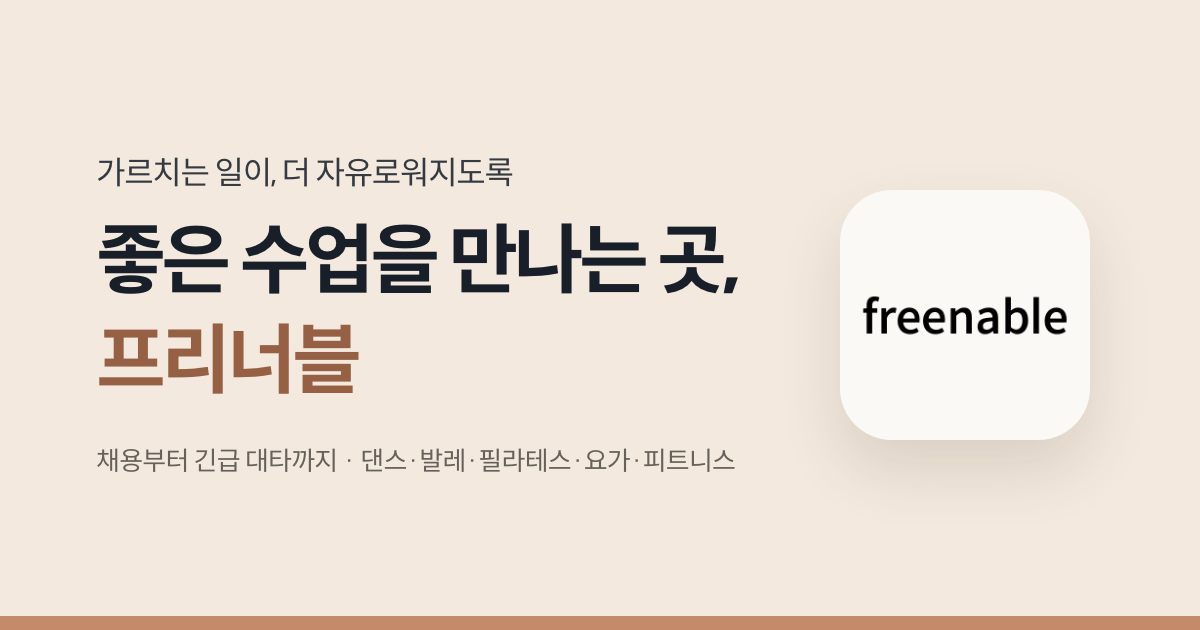
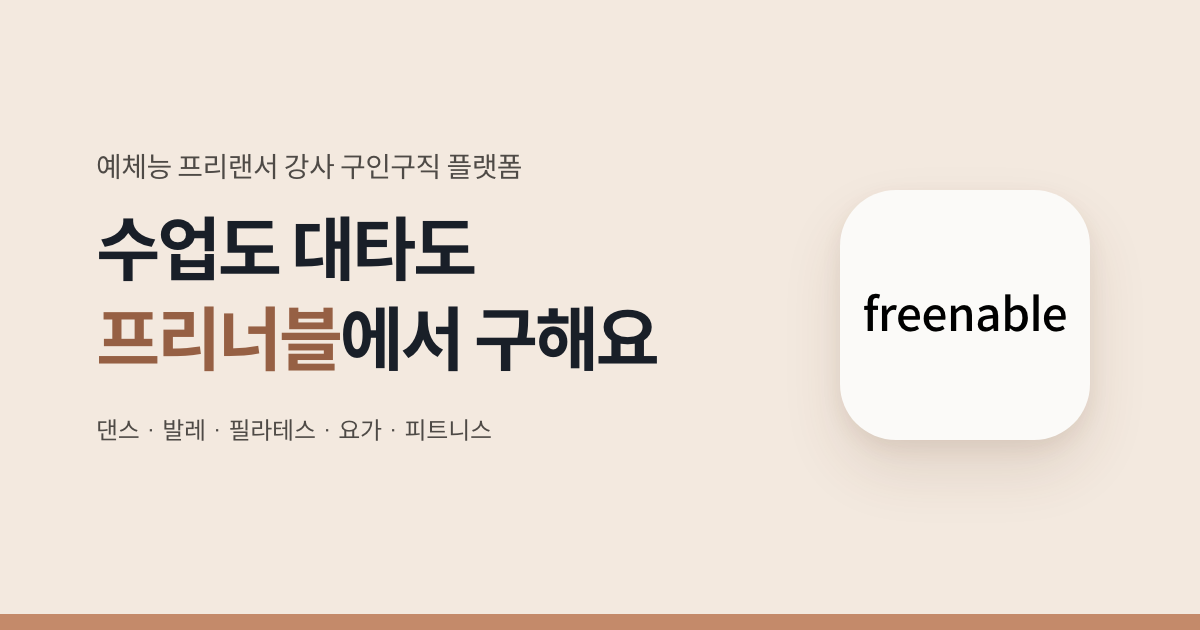
copy: 랜딩 문구 전면 수정, 인스타 광고 문구 반영, 장르 섹션 추가
- "일의 연결", "반가운 만남", "나답게" 같은 추상적인 문구를
  공고 등록·지원·대타처럼 앱에서 실제로 하는 일로 바꿈
- 인스타 광고 문구를 대타 섹션 제목과 보조 문구에 넣음
  ("갑자기 빈 수업, 대타 선생님 찾을 땐" / "공고 등록도 지원도 무료, 앱에서 간편하게")
- 서비스 설명을 "예체능 프리랜서 강사 구인구직 플랫폼"으로 통일
  (히어로, 페이지 제목, 메타 설명, JSON-LD, 공유 이미지, README)
- 소개 섹션: 지인 연락·오픈톡·커뮤니티·유료 공고 대신 프리너블 하나로
- 장르별 섹션("어떤 수업을 가르치세요?") 추가, 기능 투어의 장르 나열 줄 제거
- 메뉴·푸터 이름 정리(대타 구하기, 서비스 소개), 404 문구를 해요체로
- 공유 미리보기 이미지 원본 템플릿(scripts/og-image) 추가 후 다시 렌더링

diff --git a/app/page.tsx b/app/page.tsx
@@ -5,6 +5,7 @@ import { AppDownloadLinks } from "@/components/AppDownloadLinks";
 import { SiteHeader } from "@/components/SiteHeader";
 import { AppScreen } from "@/components/AppPreview";
 import { FeatureTour } from "@/components/FeatureTour";
+import { GENRES } from "@/content/landing";
 import { SITE } from "@/content/site";
 
 export default function Home() {
@@ -16,31 +17,44 @@ export default function Home() {
         <section className="hero" aria-labelledby="hero-title">
           <div className="container headline-grid">
             <div className="headline-block">
-              <h1 id="hero-title">좋은 수업을 만나는 곳,<br />프리너블</h1>
-              <p className="lead hero-lead">나에게 맞는 채용부터 꼭 필요한 대타까지.<br />댄스·피트니스 강사를 위한 일의 연결.</p>
+              <h1 id="hero-title">수업도 대타도<br />프리너블에서 구해요</h1>
+              <p className="lead hero-lead">예체능 프리랜서 강사 구인구직 플랫폼</p>
               <AppDownloadLinks />
-              <a href="#about" className="hero-explore">서비스 둘러보기</a>
+              <a href="#about" className="hero-explore">어떻게 쓰는지 보기</a>
             </div>
             <figure className="hero-figure">
               <AppScreen kind="jobs" className="hero-shot" eager />
-              <figcaption>가상의 예시 데이터로 구성한 앱 화면입니다.</figcaption>
+              <figcaption>앱 화면은 예시입니다.</figcaption>
             </figure>
           </div>
         </section>
         <section className="statement" id="about" aria-labelledby="about-title">
           <div className="container statement-grid">
-            <h2 id="about-title">일을 찾는 시간은 줄이고,<br />좋아하는 수업에 더 집중하세요.</h2>
-            <p className="statement-line">새로운 수업을 찾는 강사와, 함께할 강사를 찾는 센터.<br />프리너블이 서로에게 필요한 연결을 만들어갑니다.</p>
+            <h2 id="about-title">구인 글 여기저기 올리던 일,<br />이제 <em>프리너블</em> 하나로</h2>
+            <p className="statement-line">지인 연락, 오픈톡, 커뮤니티, 유료 공고 대신<br />센터는 무료로 올리고, 강사는 골라서 지원.</p>
+          </div>
+        </section>
+        <section className="genres" aria-labelledby="genres-title">
+          <div className="container genres-grid">
+            <h2 id="genres-title">어떤 수업을<br />가르치세요?</h2>
+            <ul className="genre-list">
+              {GENRES.map((genre) => (
+                <li key={genre.name}>
+                  <span className="genre-name">{genre.name}</span>
+                  <div><h3>{genre.hook}</h3><p>{genre.detail}</p></div>
+                </li>
+              ))}
+            </ul>
           </div>
         </section>
         <FeatureTour />
         <section className="app-section" id="app" aria-labelledby="app-title">
           <div className="container app-grid">
             <div className="app-copy">
-              <h2 id="app-title">당신의 다음 수업,<br />프리너블에서 시작해요.</h2>
-              <p className="lead">좋아하는 일을 오래, 나답게.<br />지금 앱을 다운로드하고 나에게 맞는 수업을 찾아보세요.</p>
+              <h2 id="app-title">공고 등록도 지원도<br />무료</h2>
+              <p className="lead">앱 받고 지역·장르만 고르면<br />바로 공고 확인</p>
               <AppDownloadLinks />
-              <p className="app-note">iPhone과 Android에서 이용할 수 있어요.<br />공고 확인부터 지원까지, 앱에서 간편하게.</p>
+              <p className="app-note">iPhone · Android</p>
             </div>
             <figure className="app-figure">
               <AppScreen kind="detail" className="app-shot-crop" />
@@ -58,7 +72,7 @@ function SiteFooter() {
       <div className="container footer-grid">
         <div className="footer-brand"><BrandLogo /></div>
         <div className="footer-links">
-          <div><strong>서비스</strong><a href="#jobs">채용공고</a><a href="#substitute">긴급 대타</a><a href="#talent">강사 프로필</a></div>
+          <div><strong>서비스</strong><a href="#jobs">수업 찾기</a><a href="#substitute">대타 구하기</a><a href="#talent">강사 프로필</a></div>
           <div><strong>안내</strong><Link href="#about">서비스 소개</Link><a href={`mailto:${SITE.email}`}>고객문의</a><Link href="/terms">이용약관</Link><Link href="/privacy">개인정보처리방침</Link></div>
         </div>
         <div className="footer-business"><p><strong>프리너블 (freenable)</strong><span>대표 권주빈</span><span>사업자등록번호 779-05-03544</span><span>통신판매업 신고번호 2026-서울성북-0328</span></p><p><span>서울시 성북구 북악산로 844 114-1201</span><a href={`mailto:${SITE.email}`}>{SITE.email}</a><span>010-8979-2047</span><span>개인정보 보호책임자 권주빈</span></p><p className="copyright">© 2026 freenable. All rights reserved.</p></div>

diff --git a/content/landing.ts b/content/landing.ts
@@ -9,7 +9,16 @@ export const APP_SCREENS: Record<AppScreenKind, string> = {
 };
 
 export const FEATURES = [
-  { id: "jobs", kind: "jobs" as const, label: "채용공고", title: "내게 맞는 수업을,\n한눈에", description: "여기저기 흩어진 수업 일자리.\n분야와 지역, 수업 조건을 살펴보고\n나에게 맞는 기회를 찾아보세요.", detail: "댄스, 발레, 필라테스, 요가, 피트니스", screen: "detail" as const, note: { title: "나에게 맞는 조건으로", text: "분야, 지역, 수업 일정" } },
-  { id: "substitute", kind: "substitute" as const, label: "대타 연결", title: "빈 수업과 빈 시간의\n반가운 만남", description: "갑자기 수업을 맡길 선생님이 필요할 때,\n새로운 수업을 맡을 여유가 생겼을 때.\n날짜와 지역, 분야를 확인하고 연결해요.", detail: "공고 등록부터 지원까지, 앱에서 간편하게", screen: "substitute" as const, note: { title: "가능한 시간에, 새로운 수업", text: "일정을 확인하고 지원해요" } },
-  { id: "talent", kind: "talent" as const, label: "강사 프로필", title: "나의 경험이\n다음 기회가 되도록", description: "어떤 수업을 해왔는지, 무엇을 잘하는지.\n소개와 경력, 전문 분야를 프로필에 담아\n함께할 센터에 나를 알려보세요.", detail: "가르치는 사람과 공간을 만드는 사람을 연결해요", screen: "talent" as const, note: { title: "센터가 프로필을 보고 제안해요", text: "장르와 활동 지역별 강사찾기" } },
+  { id: "jobs", kind: "jobs" as const, label: "채용공고", title: "장르와 지역으로\n수업 고르기", description: "필라테스인지 발레인지, 어느 지역인지 고르면\n그 조건 공고만 남아요.\n시급·요일·시간·수강 대상 보고 바로 지원.", screen: "detail" as const, note: { title: "지원 전에 조건부터", text: "급여, 근무 요일과 시간, 수강 대상" } },
+  { id: "substitute", kind: "substitute" as const, label: "대타 구하기", title: "갑자기 빈 수업,\n대타 선생님 찾을 땐", description: "대타구해요에 날짜·시간·시급만 적어 올리면\n그 시간에 되는 강사가 보고 지원해요.\n시간 비는 날, 하루짜리 수업도 여기서.", detail: "공고 등록도 지원도 무료, 앱에서 간편하게", screen: "substitute" as const, note: { title: "대타구해요", text: "날짜, 시간, 시급을 보고 지원" } },
+  { id: "talent", kind: "talent" as const, label: "강사 프로필", title: "프로필 올려 두면\n센터가 보고 연락", description: "해 온 수업, 경력, 전문 장르를 프로필에.\n센터는 강사찾기에서 장르·활동 지역별로\n프로필을 보고 제안해요.", detail: "강사 구하는 센터라면 강사찾기부터", screen: "talent" as const, note: { title: "강사찾기", text: "장르와 활동 지역이 보이는 프로필 카드" } },
+];
+
+// 장르별 섹션. 해당 장르 강사가 자기 이야기로 읽을 수 있는 수업 상황을 적습니다.
+export const GENRES = [
+  { name: "댄스", hook: "저녁·주말 타임이 비어 있다면", detail: "키즈 방송댄스, 성인 K-POP, 방과후 수업. 시간대 맞는 공고만 골라 지원." },
+  { name: "발레", hook: "한 타임만 비어도 대타가 급할 때", detail: "성인 취미발레 주말반, 유아 발레. 하루 비는 날도 대타구해요에 한 번만." },
+  { name: "필라테스", hook: "센터 여러 곳을 오가는 프리랜서라면", detail: "기구·매트 그룹 레슨, 오전·저녁 타임. 동선에 맞는 지역 공고만 모아 보기." },
+  { name: "요가", hook: "정규 수업 하나 더 늘리고 싶을 때", detail: "아침 빈야사, 저녁 하타. 요일과 시간이 맞는 정규 수업 찾기." },
+  { name: "피트니스", hook: "GX 타임, PT 자리를 찾는다면", detail: "그룹 GX, 퍼스널 트레이닝. 시급과 근무 시간 보고 바로 지원." },
 ];

diff --git a/scripts/og-image/og.html b/scripts/og-image/og.html
@@ -1,0 +1,39 @@
+<!doctype html>
+<html lang="ko">
+<head>
+<meta charset="utf-8">
+<title>freenable 공유 미리보기</title>
+<!-- 링크 공유 미리보기 1200x630. render.sh가 app/opengraph-image.png, app/twitter-image.png로 캡처합니다.
+     문구를 바꾸면 app/*-image.alt.txt도 같이 고칩니다. -->
+<style>
+@font-face{font-family:Spoqa;src:url(../../public/fonts/SpoqaHanSansNeo-Regular.woff2) format('woff2');font-weight:400}
+@font-face{font-family:Spoqa;src:url(../../public/fonts/SpoqaHanSansNeo-Medium.woff2) format('woff2');font-weight:500}
+@font-face{font-family:Spoqa;src:url(../../public/fonts/SpoqaHanSansNeo-Bold.woff2) format('woff2');font-weight:700}
+
+:root{--ink:#191F28; --sub:#4E4A46; --sand:#F3E9DF; --warm:#966044; --accent:#C48A6A; --paper:#FBFAF8}
+*{box-sizing:border-box;word-break:keep-all}
+html,body{margin:0;padding:0}
+body{position:relative;overflow:hidden;width:1200px;height:630px;font-family:Spoqa,sans-serif;color:var(--ink);background:var(--sand);-webkit-font-smoothing:antialiased}
+body::after{content:"";position:absolute;left:0;right:0;bottom:0;height:16px;background:var(--accent)}
+
+.copy{position:absolute;left:96px;top:150px}
+.kicker{margin:0 0 22px;font-size:28px;color:var(--sub);letter-spacing:-.02em}
+h1{margin:0;font-size:70px;line-height:1.28;font-weight:700;letter-spacing:-.05em}
+h1 .hl{color:var(--warm)}
+.fields{margin:30px 0 0;font-size:24px;color:var(--sub);letter-spacing:-.01em}
+
+/* 워드마크는 앱 BRAND_ASSETS 기준(Spoqa Han Sans Neo Medium, #000)대로 글자로 그립니다 */
+.tile{position:absolute;right:110px;top:190px;width:250px;height:250px;border-radius:56px;background:var(--paper);
+  display:flex;align-items:center;justify-content:center;box-shadow:0 30px 60px #603C201F,0 8px 20px #603C2014}
+.tile span{font-size:46px;font-weight:500;color:#000;letter-spacing:-.01em}
+</style>
+</head>
+<body>
+<div class="copy">
+  <p class="kicker">예체능 프리랜서 강사 구인구직 플랫폼</p>
+  <h1>수업도 대타도<br><span class="hl">프리너블</span>에서 구해요</h1>
+  <p class="fields">댄스 · 발레 · 필라테스 · 요가 · 피트니스</p>
+</div>
+<div class="tile"><span>freenable</span></div>
+</body>
+</html>

diff --git a/app/globals.css b/app/globals.css
@@ -99,7 +99,17 @@ h1, h2, h3 { text-wrap: balance; overflow-wrap: break-word; min-width: 0; }
 .statement { padding-block: var(--section-gap) var(--section-gap-s); }
 .statement-grid { display: grid; grid-template-columns: repeat(12, minmax(0, 1fr)); column-gap: var(--gap-columns); row-gap: var(--space-xl); }
 .landing .statement h2 { grid-column: 1 / span 10; font-size: var(--text-display-s); }
+.landing .statement h2 em { color: var(--color-accent-text); font-style: normal; }
 .statement-line { grid-column: 7 / span 6; color: var(--color-muted); font-size: var(--text-lead); line-height: 1.7; }
+
+/* Landing: genres */
+.genres { padding-block: var(--section-gap-s); }
+.genres-grid { display: grid; grid-template-columns: repeat(12, minmax(0, 1fr)); column-gap: var(--gap-columns); row-gap: var(--space-xl); }
+.genres h2 { grid-column: 1 / span 4; align-self: start; }
+.genre-list { grid-column: 6 / span 7; margin: 0; padding: 0; list-style: none; border-bottom: 1px solid var(--color-rule); }
+.genre-list li { display: grid; grid-template-columns: minmax(0, 2fr) minmax(0, 5fr); column-gap: var(--gap-columns); row-gap: var(--space-2xs); padding-block: var(--space-lg); border-top: 1px solid var(--color-rule); }
+.genre-name { color: var(--color-accent-text); font-size: var(--text-title); font-weight: 700; letter-spacing: var(--tracking-display); line-height: 1.35; }
+.genre-list p { margin-top: var(--space-2xs); color: var(--color-muted); }
 
 /* Landing: feature tour */
 .tour { padding-block: var(--section-gap-s) var(--section-gap); }
@@ -171,6 +181,8 @@ h1, h2, h3 { text-wrap: balance; overflow-wrap: break-word; min-width: 0; }
   .hero-figure { justify-self: center; }
   .hero-shot { height: 520px; }
   .landing .statement h2, .statement-line { grid-column: 1 / -1; }
+  .genres h2, .genre-list { grid-column: 1 / -1; }
+  .genre-list li { grid-template-columns: minmax(0, 1fr); }
   .tour-panel { grid-template-columns: minmax(0, 1fr); row-gap: var(--space-xl); }
   .tour-copy, .tour-inline { grid-column: 1 / -1; }
   .app-copy, .app-figure, .footer-brand, .footer-links { grid-column: 1 / -1; }

diff --git a/app/layout.tsx b/app/layout.tsx
@@ -19,10 +19,10 @@ const spoqa = localFont({
 export const metadata: Metadata = {
   metadataBase: new URL(BASE_URL),
   title: {
-    default: "프리너블(freenable) | 예체능 강사 구인구직·대타 앱",
+    default: "프리너블(freenable) | 예체능 프리랜서 강사 구인구직 플랫폼",
     template: "%s | freenable",
   },
-  description: "댄스·발레·필라테스·요가·피트니스 강사와 학원·센터를 연결하는 예체능 프리랜서 구인구직·대타 앱, 프리너블(freenable)입니다.",
+  description: "예체능 프리랜서 강사 구인구직 플랫폼 프리너블(freenable). 댄스·발레·필라테스·요가·피트니스 강사는 수업을 찾고, 학원·센터는 강사와 대타를 구해요. 공고 등록과 지원은 무료예요.",
   alternates: { canonical: "/" },
   verification: {
     other: { "naver-site-verification": "33c1ed7be14518f3143617830dc991953bbf67eb" },
@@ -31,14 +31,14 @@ export const metadata: Metadata = {
     type: "website",
     locale: "ko_KR",
     siteName: "프리너블",
-    title: "프리너블(freenable) | 예체능 강사 구인구직·대타 앱",
-    description: "채용부터 긴급 대타까지, 예체능 일을 더 빠르게 연결합니다.",
+    title: "프리너블(freenable) | 예체능 프리랜서 강사 구인구직 플랫폼",
+    description: "댄스·발레·필라테스·요가·피트니스 강사 공고와 대타 공고를 한 앱에서. 공고 등록도 지원도 무료.",
     url: "/",
   },
   twitter: {
     card: "summary_large_image",
-    title: "프리너블(freenable) | 예체능 강사 구인구직·대타 앱",
-    description: "채용부터 긴급 대타까지, 예체능 일을 더 빠르게 연결합니다.",
+    title: "프리너블(freenable) | 예체능 프리랜서 강사 구인구직 플랫폼",
+    description: "댄스·발레·필라테스·요가·피트니스 강사 공고와 대타 공고를 한 앱에서. 공고 등록도 지원도 무료.",
   },
 };
 

diff --git a/content/structured-data.ts b/content/structured-data.ts
@@ -29,7 +29,7 @@ export const STRUCTURED_DATA = {
       name: "프리너블",
       operatingSystem: "iOS, Android",
       applicationCategory: "BusinessApplication",
-      description: "댄스·발레·필라테스·요가·피트니스 강사와 학원·센터를 연결하는 예체능 프리랜서 구인구직·대타 앱",
+      description: "댄스·발레·필라테스·요가·피트니스 분야의 예체능 프리랜서 강사 구인구직 플랫폼",
       installUrl: STORE_PROFILES.googlePlay,
       offers: { "@type": "Offer", price: "0", priceCurrency: "KRW" },
       publisher: { "@id": `${BASE_URL}/#org` },

diff --git a/app/not-found.tsx b/app/not-found.tsx
@@ -4,9 +4,9 @@ export default function NotFound() {
   return (
     <main className="not-found">
       <p className="eyebrow">404 · PAGE NOT FOUND</p>
-      <h1>페이지를 찾을 수 없습니다.</h1>
-      <p>주소가 변경되었거나 존재하지 않는 페이지입니다.</p>
-      <Link className="button button-dark" href="/">freenable 홈으로 돌아가기</Link>
+      <h1>페이지를 찾을 수 없어요.</h1>
+      <p>주소가 바뀌었거나 없는 페이지예요.</p>
+      <Link className="button button-dark" href="/">홈으로 가기</Link>
     </main>
   );
 }

diff --git a/content/site.ts b/content/site.ts
@@ -15,9 +15,9 @@ export const SITE = {
   businessInquiry: "mailto:contact@freenable.co.kr?subject=freenable%20기업%20이용%20문의",
   navigation: [
     { href: "/#jobs", label: "수업 찾기" },
-    { href: "/#substitute", label: "대타 연결" },
+    { href: "/#substitute", label: "대타 구하기" },
     { href: "/#talent", label: "강사 프로필" },
-    { href: "/#about", label: "프리너블 이야기" },
+    { href: "/#about", label: "서비스 소개" },
   ],
   fields: ["댄스", "발레", "필라테스", "요가", "피트니스"],
   jobCriteria: [

diff --git a/components/FeatureTour.tsx b/components/FeatureTour.tsx
@@ -43,7 +43,7 @@ export function FeatureTour() {
               <div className="tour-copy">
                 <h2 id={`${feature.id}-title`}>{feature.title}</h2>
                 <p>{feature.description}</p>
-                <p className="tour-detail">{feature.detail}</p>
+                {feature.detail && <p className="tour-detail">{feature.detail}</p>}
               </div>
               <figure className="tour-inline">
                 <AppScreen kind={feature.screen} />

diff --git a/README.md b/README.md
@@ -1,6 +1,6 @@
 # freenable Web
 
-예체능 프리랜서 구인구직 플랫폼 freenable의 Next.js 웹사이트입니다.
+예체능 프리랜서 강사 구인구직 플랫폼 freenable의 Next.js 웹사이트입니다.
 
 ## 기술 구성
 
